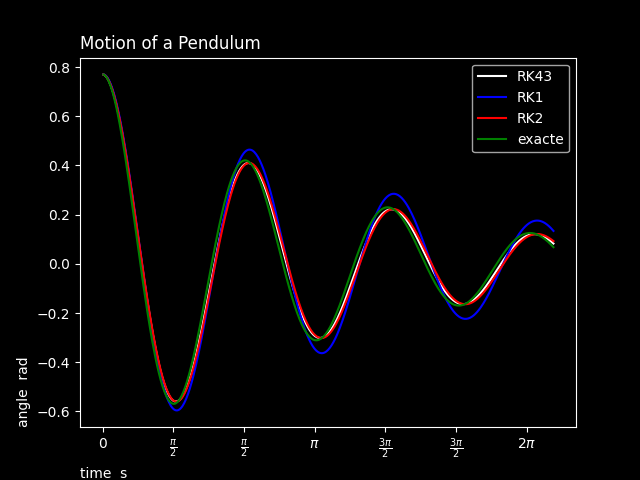
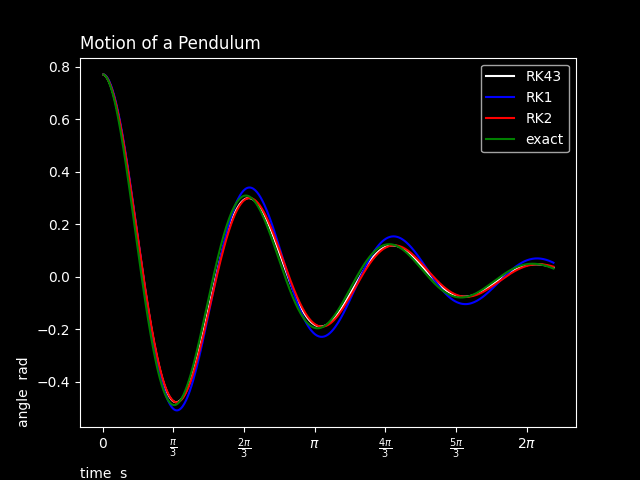
update format

diff --git a/formater.py b/formater.py
@@ -1,7 +1,7 @@
 import numpy as np
 import matplotlib.pyplot as plt
 
-def multiple_formatter(denominator=2, number=np.pi, latex='\pi'):
+def multiple_formatter(denominator=3, number=np.pi, latex='\pi'):
     def gcd(a, b):
         while b:
             a, b = b, a%b
